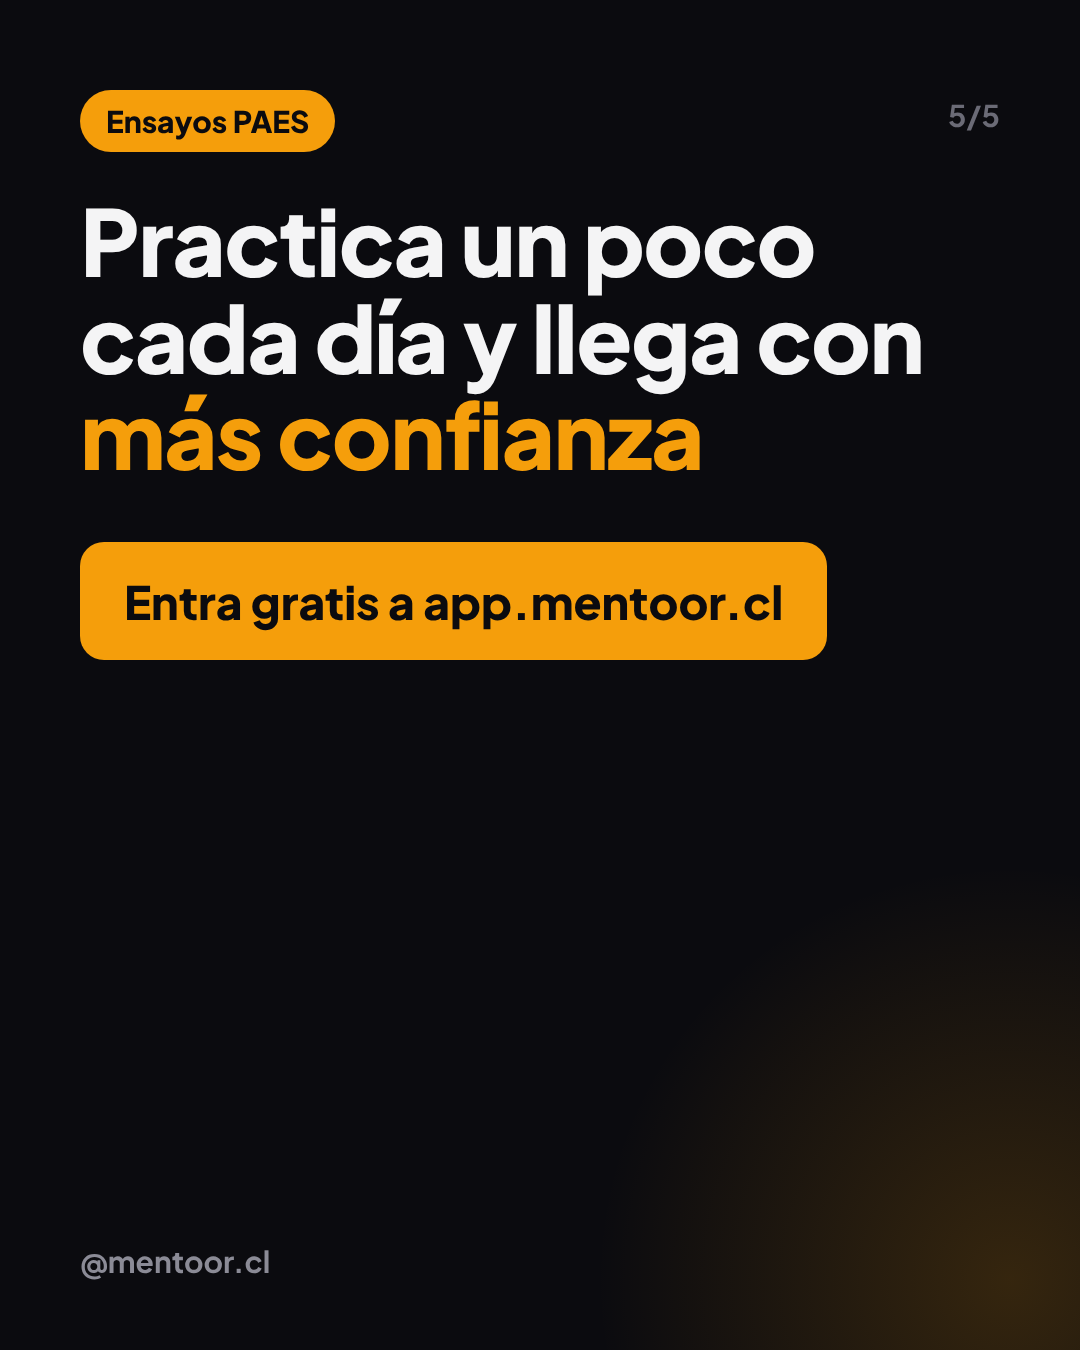
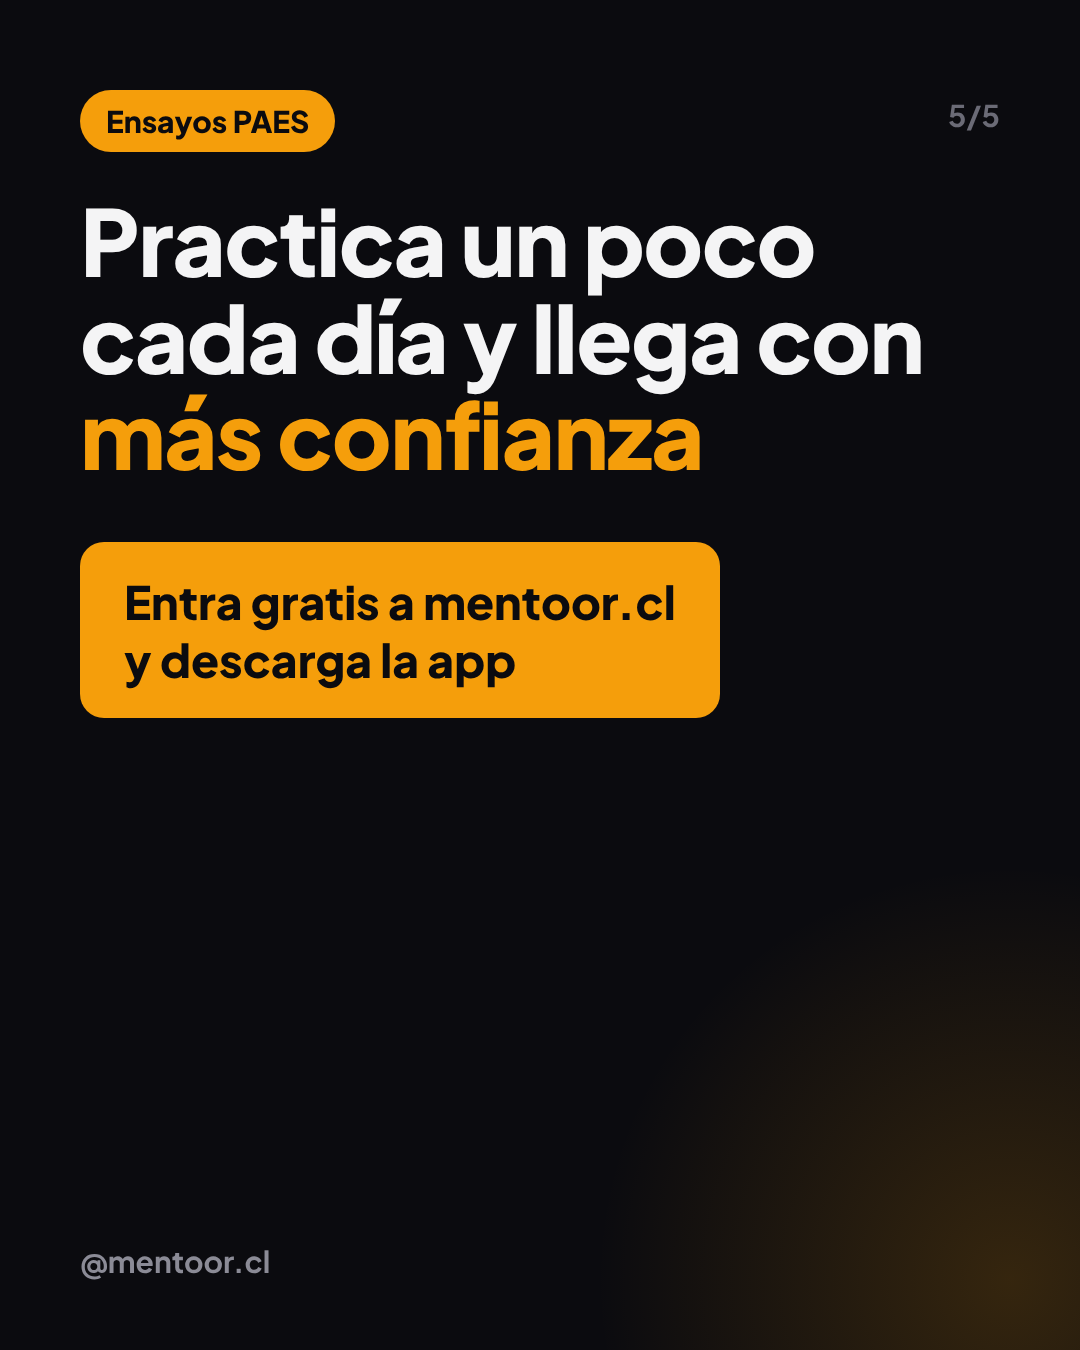
Campaña: CTA a mentoor.cl y descarga de la app
Claude-Session: https://claude.ai/code/session_01MfLErdp4yPFDirAVoQj3He

Changed region(s): [[0.0611, 0.4044, 0.7639, 0.5289]]

diff --git a/campanas/2026-11-lanzamiento-ensayos-ruta-lectora/campana.md b/campanas/2026-11-lanzamiento-ensayos-ruta-lectora/campana.md
@@ -4,7 +4,7 @@ Para aprobación de Karina. No se ha publicado ni programado nada.
 
 **Mensaje central:** practica un poco cada día y llega con más confianza a la PAES. Leer mejor también te sirve fuera de la prueba.
 
-**CTA en todas las piezas:** Entra gratis a app.mentoor.cl
+**CTA en todas las piezas:** Entra gratis a mentoor.cl y descarga la app
 
 **Redes:** Instagram y TikTok. Facebook queda pendiente: ver las preguntas al final.
 
@@ -47,7 +47,7 @@ Todos los videos llevan voz humana grabada y subtítulos, usan capturas reales d
 | 3–8 s | Captura del inicio de la Ruta Lectora | "Por eso en Mentoor hay algo nuevo: la Ruta Lectora." |
 | 8–16 s | Los 3 pasos, uno por uno, sobre las capturas (texto, pregunta, explicación) | "Lees un texto corto, respondes 4 preguntas tipo PAES y ves por qué cada respuesta es la correcta." |
 | 16–22 s | "10 minutos al día" en ámbar | "Son unos 10 minutos. Como el gimnasio, pero para leer." |
-| 22–25 s | CTA | "Entra gratis a app.mentoor.cl." |
+| 22–25 s | CTA | "Entra gratis a mentoor.cl y descarga la app." |
 
 Versión B del gancho: "¿Te cuesta concentrarte cuando lees? Prueba esto."
 
@@ -58,7 +58,7 @@ Versión B del gancho: "¿Te cuesta concentrarte cuando lees? Prueba esto."
 | 3–10 s | Captura de Ensayos PAES | "En Mentoor puedes practicar las pruebas PAES como te acomode." |
 | 10–17 s | "Simulacro con reloj" / "10 preguntas con corrección al instante" | "Haz un simulacro con reloj o entrena 10 preguntas con corrección al instante." |
 | 17–22 s | Recuadro lila: "Ensayos de práctica. No son la PAES ni son oficiales. Tu % de aciertos no es puntaje PAES." | "Ojo: son ensayos de práctica. No son la PAES y tu porcentaje no es tu puntaje." |
-| 22–25 s | CTA | "Practica un poco cada día. Entra gratis a app.mentoor.cl." |
+| 22–25 s | CTA | "Practica un poco cada día. Entra gratis a mentoor.cl y descarga la app." |
 
 ### Video 3 · "Palabras que nunca has visto" (Ruta Lectora, Palabras, unos 20 s)
 | Tiempo | En pantalla | Voz |
@@ -66,7 +66,7 @@ Versión B del gancho: "¿Te cuesta concentrarte cuando lees? Prueba esto."
 | 0–3 s (gancho) | "incomprensible" en grande | "¿Qué haces si en la prueba aparece una palabra que nunca has visto?" |
 | 3–12 s | La palabra se parte: in (no) + comprens (entender) + ible (se puede) | "La partes en piezas: in es no, comprens es entender, ible es se puede. Que no se puede entender." |
 | 12–17 s | Captura de Palabras: "30 piezas" | "En la Ruta Lectora hay 30 piezas para deducir palabras sin diccionario." |
-| 17–20 s | CTA | "Entra gratis a app.mentoor.cl." |
+| 17–20 s | CTA | "Entra gratis a mentoor.cl y descarga la app." |
 
 Versión B: otra pieza de la app (por ejemplo, "bio" = vida, en biografía y simbiosis).
 
@@ -100,7 +100,7 @@ Hay una vista rápida de cada carrusel en sheet-ruta-lectora.png y sheet-ensayos
 | H2 | Pregunta | ¿Qué te cuesta más cuando lees un texto largo? | Caja de preguntas. Respondemos con estrategias de la app, sin mostrar nombres. |
 | H3 | Quiz | ¿Qué significa "incomprensible"? | A) Que no se puede entender ✔ · B) Que es muy largo · C) Que es antiguo |
 | H4 | Encuesta | ¿Cómo prefieres practicar? | "Simulacro con reloj" / "10 preguntas" |
-| H5 | Pregunta | ¿Qué habilidad quieres entrenar primero: localizar, interpretar o evaluar? | Caja de preguntas + link a app.mentoor.cl |
+| H5 | Pregunta | ¿Qué habilidad quieres entrenar primero: localizar, interpretar o evaluar? | Caja de preguntas + link a mentoor.cl |
 
 ---
 
@@ -110,30 +110,30 @@ Hay una vista rápida de cada carrusel en sheet-ruta-lectora.png y sheet-ensayos
 > ¿Lees un texto y al final no te acuerdas de nada? Le pasa a mucha gente.
 > En Mentoor abrimos la Ruta Lectora: un texto corto, 4 preguntas tipo PAES y la explicación de cada respuesta. Unos 10 minutos al día, como el gimnasio, pero para leer.
 > Y lo que aprendes te sirve también fuera de la prueba.
-> Entra gratis a app.mentoor.cl
+> Entra gratis a mentoor.cl y descarga la app
 >
 > #PAES #CompetenciaLectora #RutaLectora #LecturaDiaria #CuartoMedio
 
 **C2 · Carrusel Ensayos PAES**
 > ¿Tienes 10 minutos o tienes dos horas? En Mentoor puedes practicar todas las pruebas PAES: simulacro con reloj o entrenamiento de 10 preguntas con corrección al instante.
 > Son ensayos de práctica: no son la PAES ni son oficiales, y tu porcentaje de aciertos no es puntaje PAES. Matemática, Historia y Ciencias están en piloto, con revisión docente pendiente.
-> Entra gratis a app.mentoor.cl
+> Entra gratis a mentoor.cl y descarga la app
 >
 > #EnsayoPAES #PAES #PAES2026 #TipsPAES #CuartoMedio
 
-**Video 1** · Como el gimnasio, pero para leer 📖 Un texto corto, 4 preguntas y la explicación de cada una. Entra gratis a app.mentoor.cl
+**Video 1** · Como el gimnasio, pero para leer 📖 Un texto corto, 4 preguntas y la explicación de cada una. Entra gratis a mentoor.cl y descarga la app
 #CompetenciaLectora #PAES #RutaLectora #LecturaDiaria #EstudiarEnChile
 
-**Video 2** · Simulacro con reloj o 10 preguntas: tú eliges. Son ensayos de práctica, no la PAES. Entra gratis a app.mentoor.cl
+**Video 2** · Simulacro con reloj o 10 preguntas: tú eliges. Son ensayos de práctica, no la PAES. Entra gratis a mentoor.cl y descarga la app
 #EnsayoPAES #PAES #TipsPAES #TercerMedio #CuartoMedio
 
-**Video 3** · Una palabra que nunca has visto no te tiene que frenar. Pártela en piezas 🧩 Entra gratis a app.mentoor.cl
+**Video 3** · Una palabra que nunca has visto no te tiene que frenar. Pártela en piezas 🧩 Entra gratis a mentoor.cl y descarga la app
 #CompetenciaLectora #PAES #Vocabulario #TipsPAES #RutaLectora
 
-**Post simple (18 nov, C2 lámina 4)** · Para que lo tengas claro: nuestros ensayos son de práctica. No son la PAES ni son oficiales, y tu porcentaje no es puntaje PAES. Sirven para entrenar y llegar con más confianza. Entra gratis a app.mentoor.cl
+**Post simple (18 nov, C2 lámina 4)** · Para que lo tengas claro: nuestros ensayos son de práctica. No son la PAES ni son oficiales, y tu porcentaje no es puntaje PAES. Sirven para entrenar y llegar con más confianza. Entra gratis a mentoor.cl y descarga la app
 #EnsayoPAES #PAES #CuartoMedio
 
-**Historias** · cada una lleva el sticker de enlace "Entra gratis" a app.mentoor.cl.
+**Historias** · cada una lleva el sticker de enlace "Entra gratis" a mentoor.cl.
 
 **Para familias y orientadores** (fijar como comentario en C1): "Si acompañas a un estudiante, la Ruta Lectora es una rutina corta de 10 minutos al día. En Chile, 1 de cada 3 estudiantes de 15 años no alcanza el nivel básico de lectura (PISA 2022, OCDE). Un poco cada día ayuda."
 
